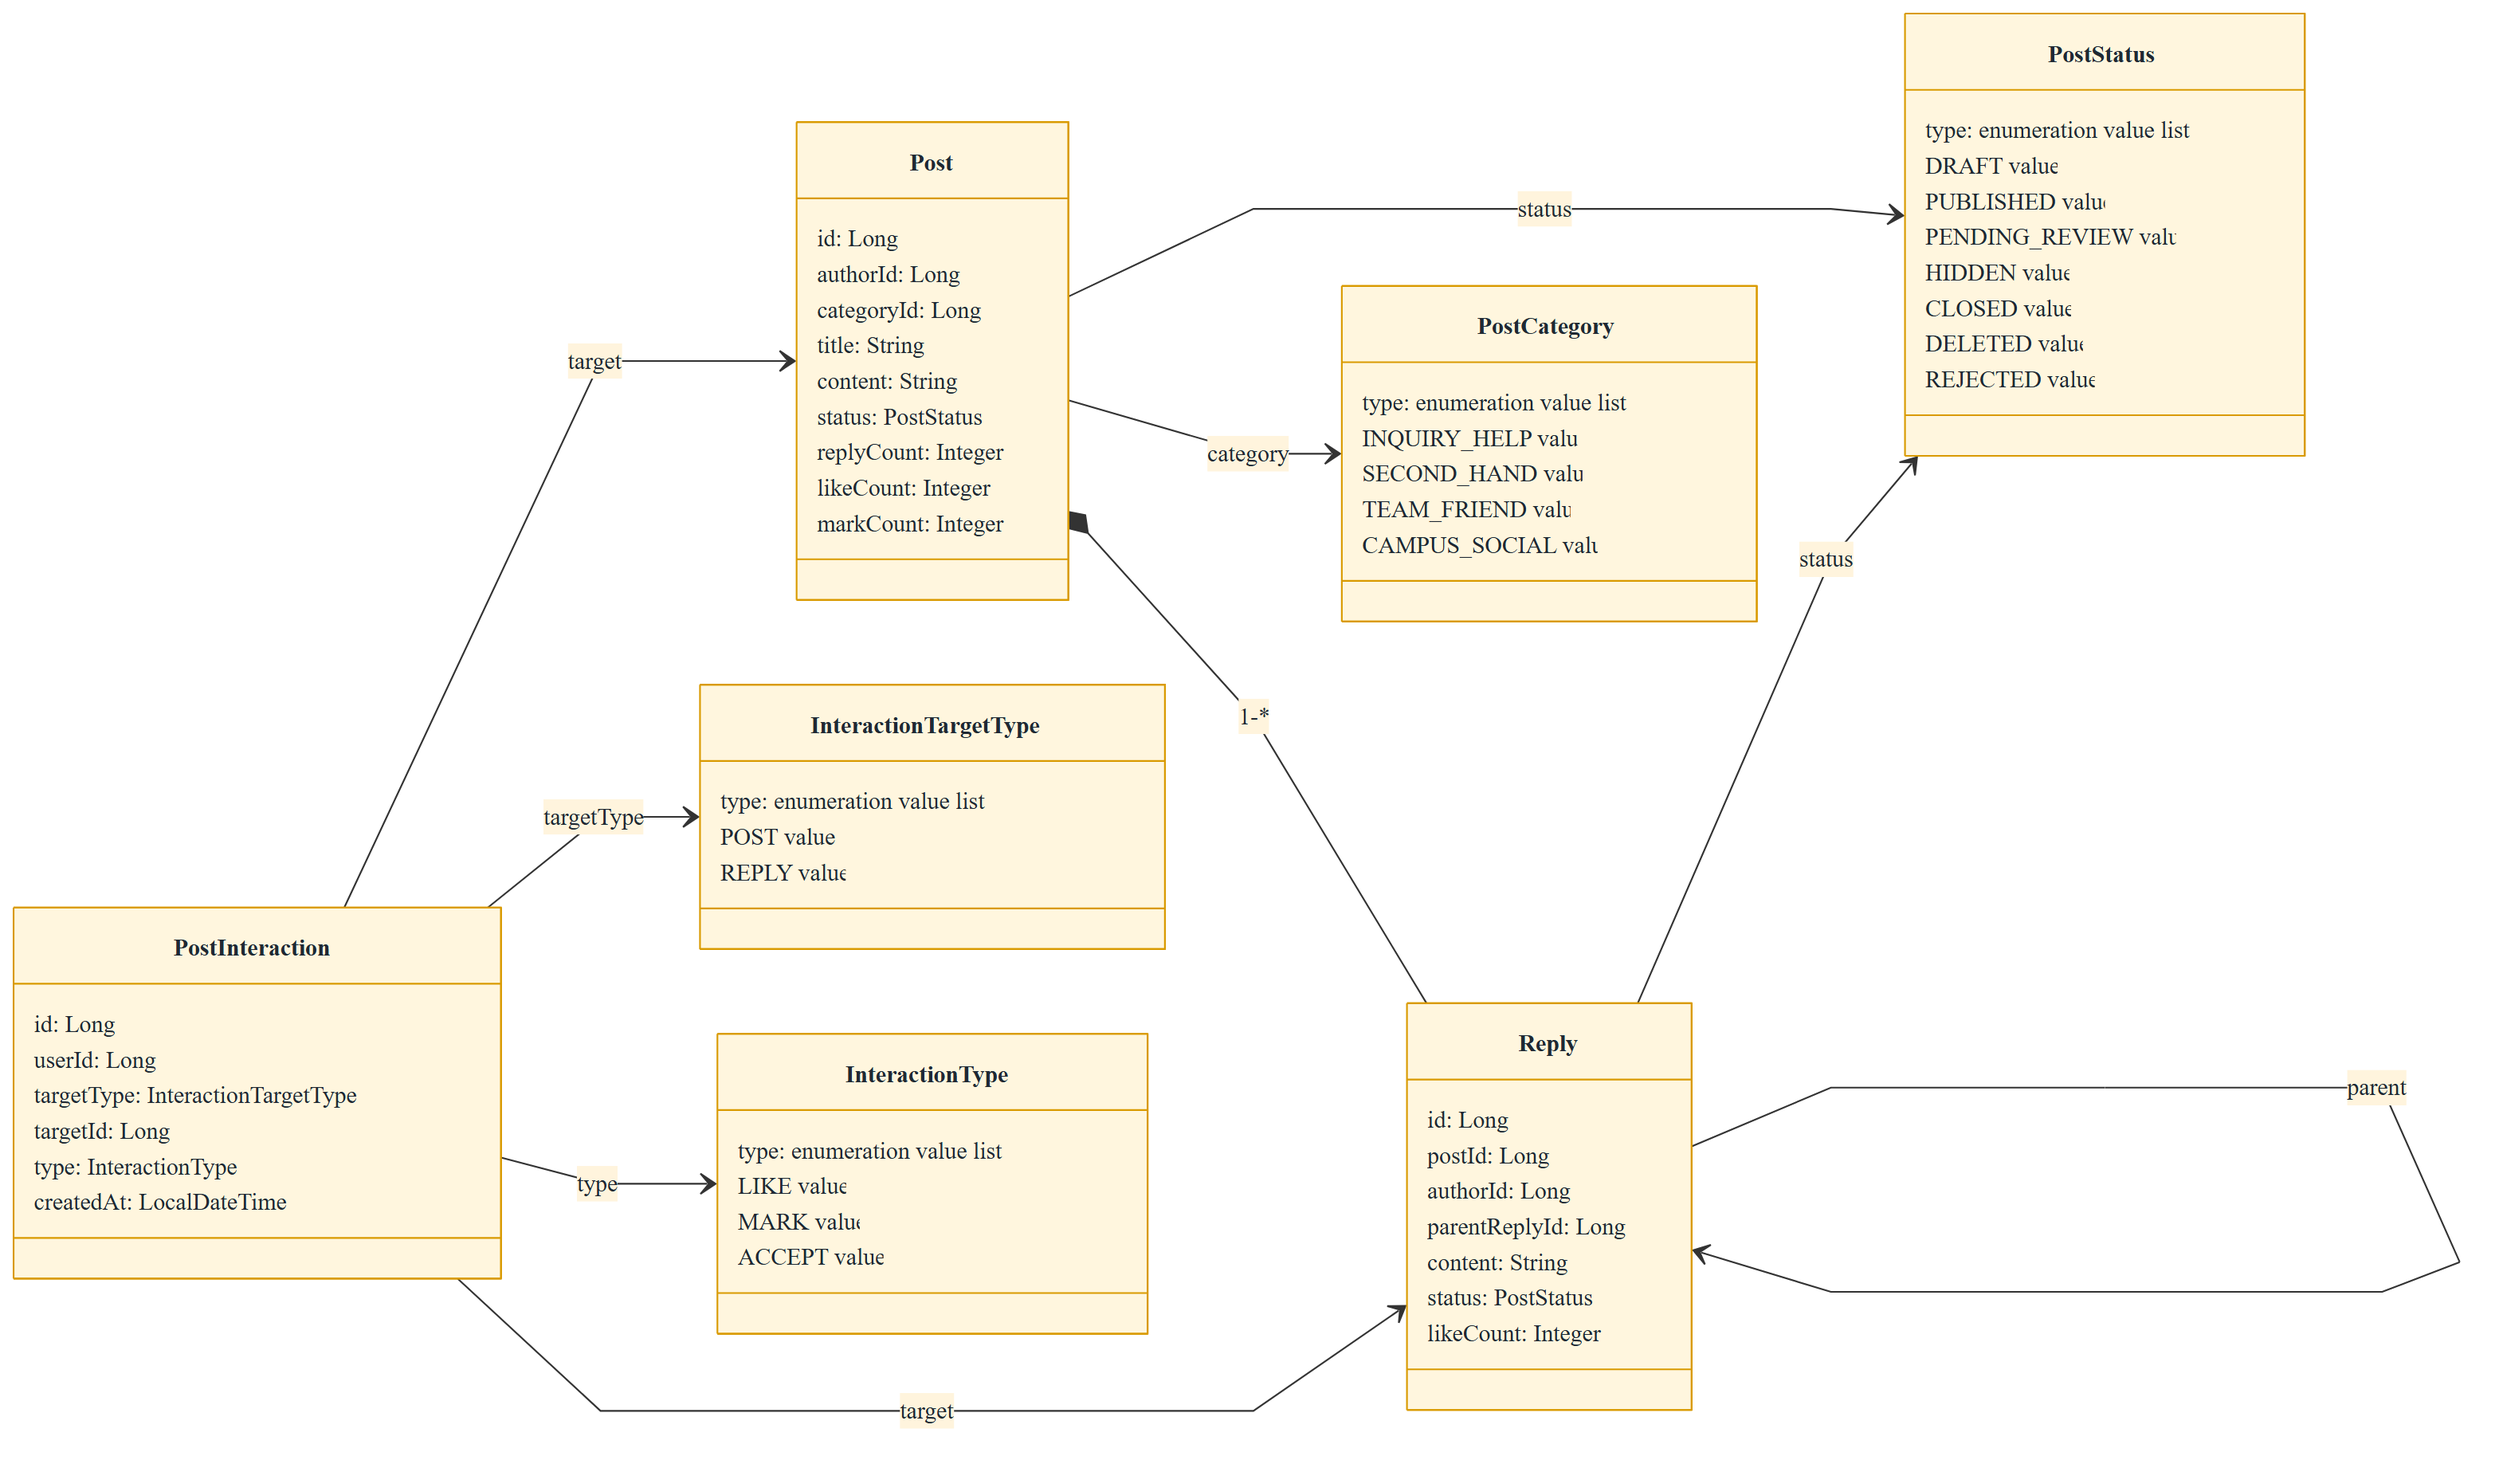
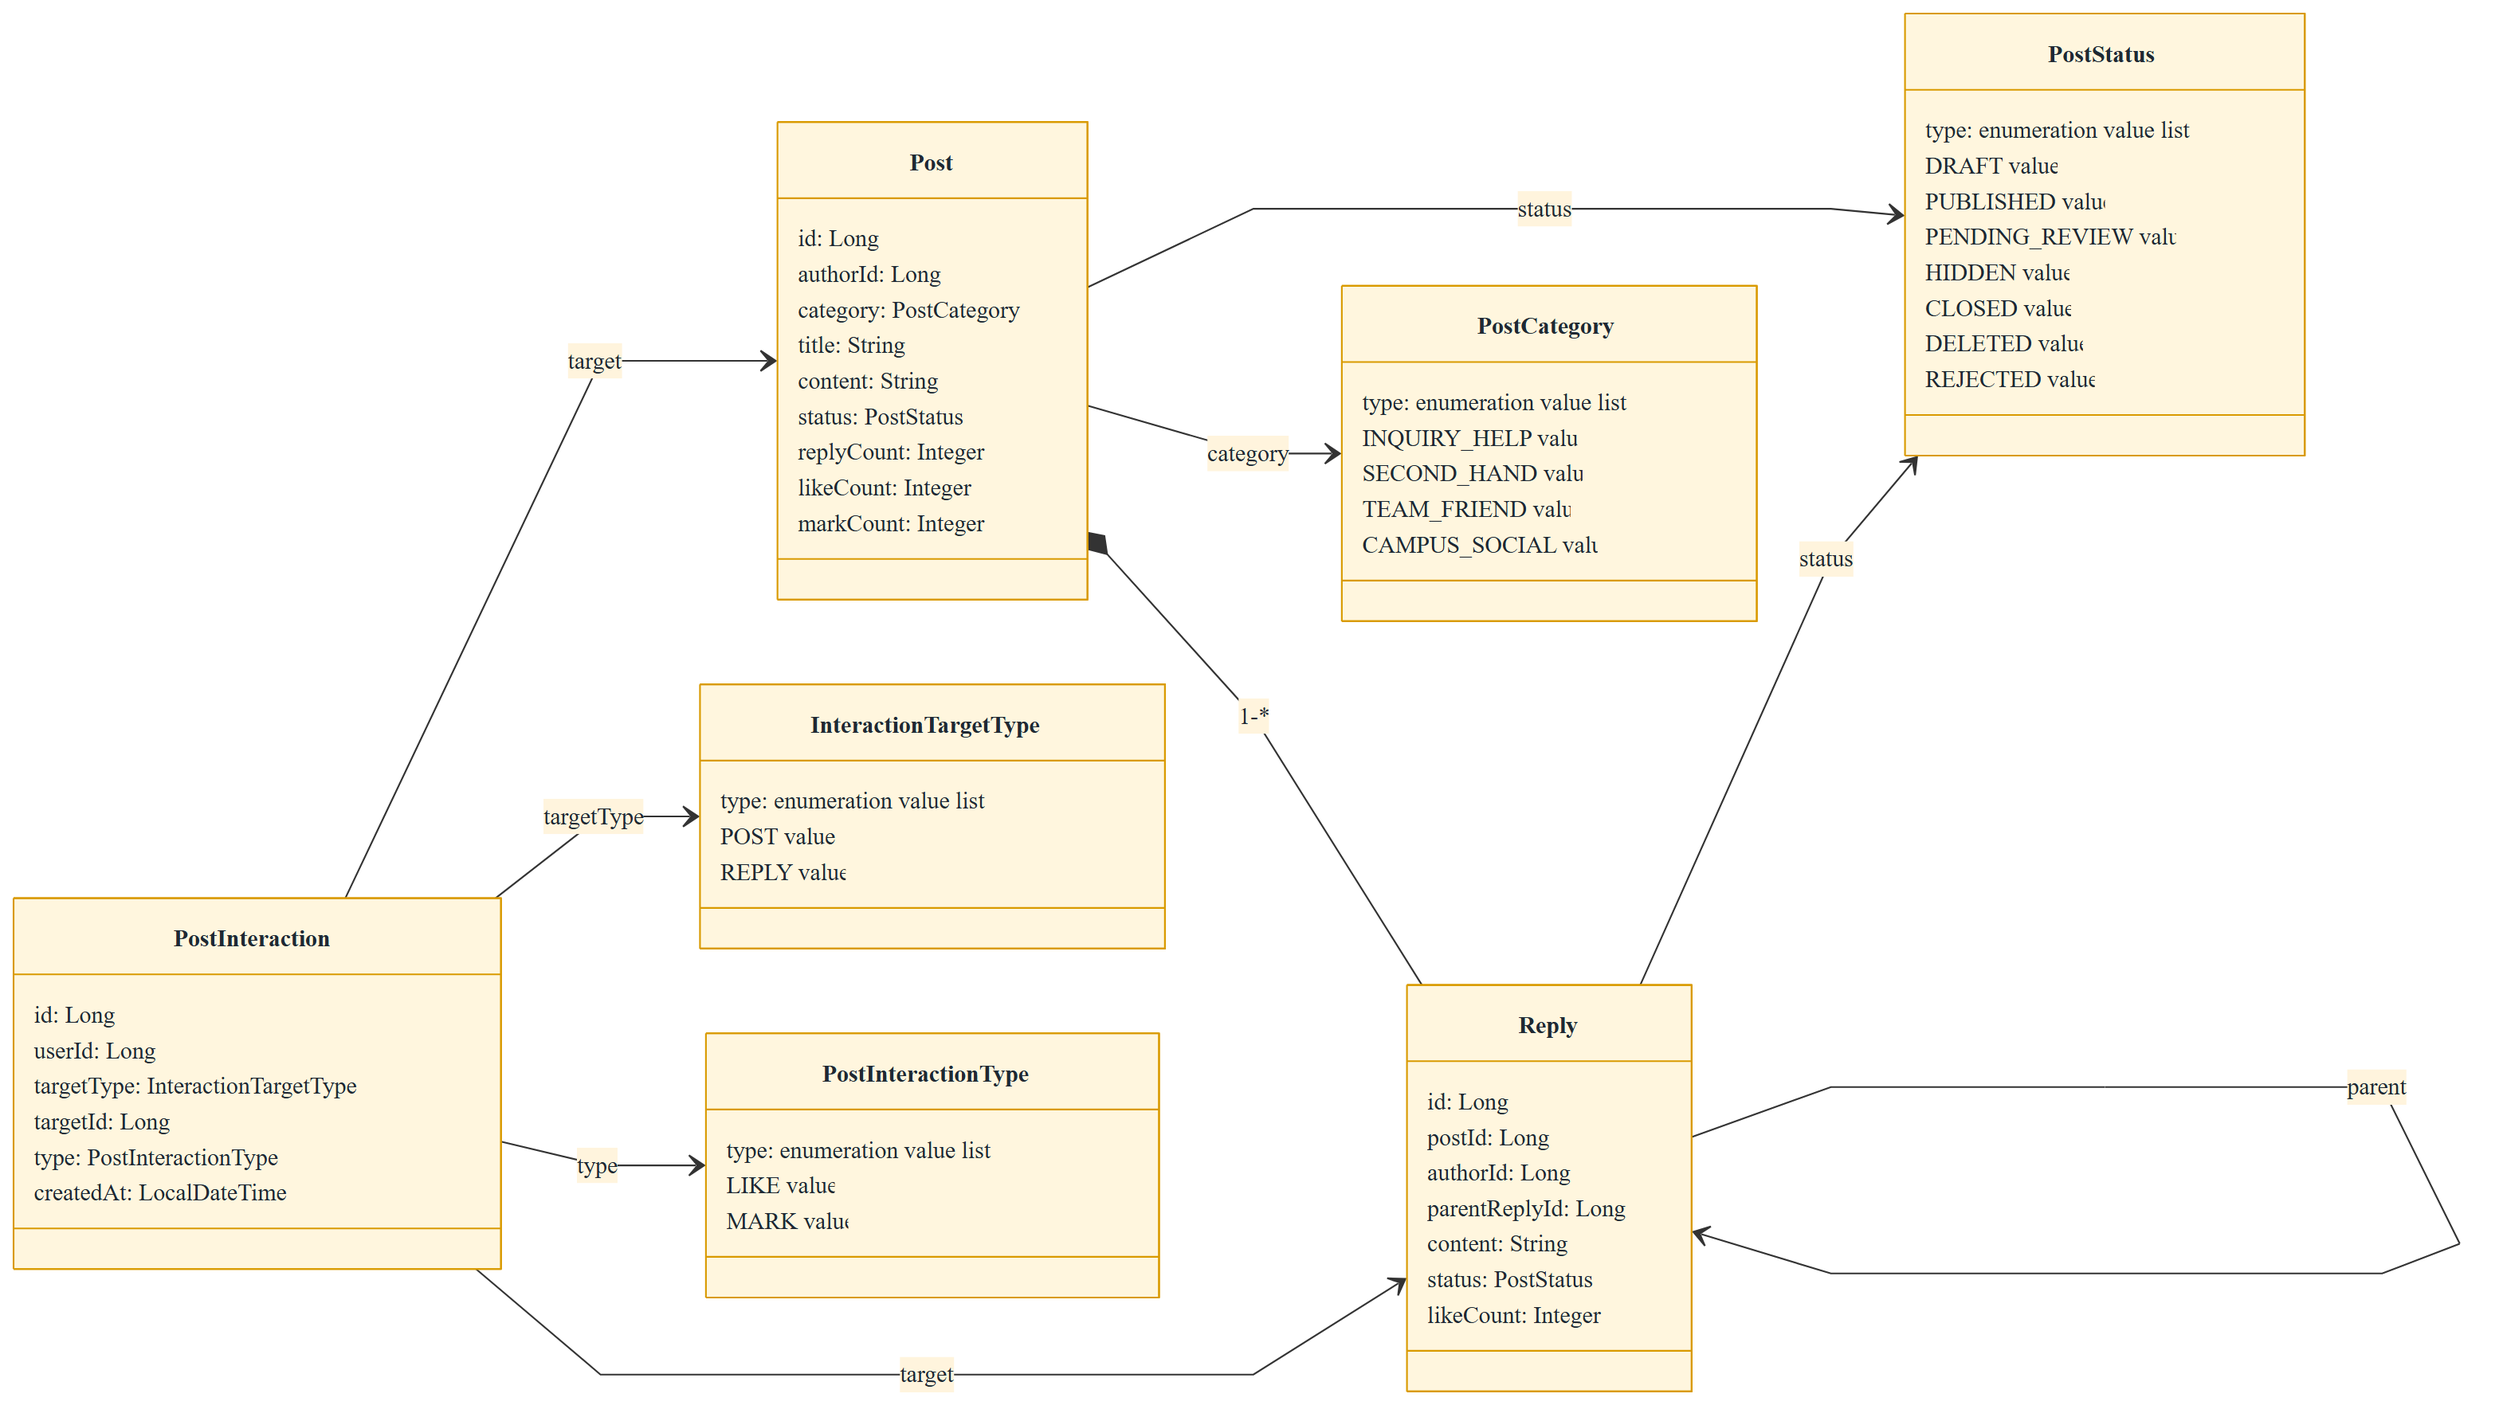
P3图片修正

diff --git a/docs/P3/01-核心类设计/核心类图/核心类设计.md b/docs/P3/01-核心类设计/核心类图/核心类设计.md
@@ -316,8 +316,9 @@
 | `id` | `Long` | 认证记录 ID |
 | `userId` | `Long` | 用户 ID |
 | `method` | `VerificationMethod` | 认证方式 |
-| `realName` | `String` | 真实姓名 |
-| `studentNumber` | `String` | 学号 |
+| `realNameCipher` | `String` | 真实姓名密文 |
+| `studentNumberCipher` | `String` | 学号密文 |
+| `studentNumberHash` | `String` | 学号哈希，用于查重 |
 | `school` | `String` | 学校 |
 | `department` | `String` | 院系 |
 | `evidenceUrl` | `String` | 认证材料 |
@@ -356,7 +357,7 @@ VerificationStatus: UNVERIFIED, PENDING, VERIFIED, REJECTED
 |---|---|---|
 | `id` | `Long` | 帖子 ID |
 | `authorId` | `Long` | 作者 ID |
-| `categoryId` | `Long` | 所属板块 ID |
+| `category` | `PostCategory` | 帖子分类 |
 | `title` | `String` | 标题 |
 | `content` | `String` | 正文 |
 | `status` | `PostStatus` | 帖子状态 |
@@ -393,7 +394,7 @@ VerificationStatus: UNVERIFIED, PENDING, VERIFIED, REJECTED
 | `userId` | `Long` | 用户 ID |
 | `targetType` | `InteractionTargetType` | 互动对象类型 |
 | `targetId` | `Long` | 互动对象 ID |
-| `type` | `InteractionType` | 互动类型 |
+| `type` | `PostInteractionType` | 互动类型 |
 | `createdAt` | `LocalDateTime` | 创建时间 |
 
 ### 6.4 帖子模块枚举
@@ -402,7 +403,7 @@ VerificationStatus: UNVERIFIED, PENDING, VERIFIED, REJECTED
 PostCategory: INQUIRY_HELP, SECOND_HAND, TEAM_FRIEND, CAMPUS_SOCIAL
 PostStatus: DRAFT, PUBLISHED, PENDING_REVIEW, HIDDEN, CLOSED, DELETED, REJECTED
 InteractionTargetType: POST, REPLY
-InteractionType: LIKE, MARK, ACCEPT
+PostInteractionType: LIKE, MARK
 ```
 
 ## 7. 任务模块
@@ -498,7 +499,7 @@ InteractionType: LIKE, MARK, ACCEPT
 
 ```text
 TaskCategory: ERRAND, AGENCY
-TaskStatus: OPEN, ACCEPTED, IN_PROGRESS, PENDING_CONFIRMATION, COMPLETED, REVIEWED, CANCELLED, DISPUTED
+TaskStatus: DRAFT, OPEN, PENDING_REVIEW, ACCEPTED, IN_PROGRESS, PENDING_CONFIRMATION, COMPLETED, REVIEWED, CANCELLED, DISPUTED, REJECTED
 ApplicationStatus: PENDING, ACCEPTED, REJECTED, WITHDRAWN
 RewardType: FREE, POINTS, CASH, NEGOTIABLE
 ```
@@ -557,14 +558,20 @@ MessageType: TEXT, IMAGE, SYSTEM_NOTIFICATION
 | 关键属性 | 类型 | 说明 |
 |---|---|---|
 | `id` | `Long` | 附件 ID |
+| `uploaderId` | `Long` | 上传者 ID |
 | `ownerType` | `AttachmentOwnerType` | 附件所属对象类型 |
 | `ownerId` | `Long` | 所属对象 ID |
 | `type` | `AttachmentType` | 附件类型 |
-| `url` | `String` | 附件地址 |
+| `fileName` | `String` | 文件名 |
+| `fileUrl` | `String` | 附件地址 |
+| `contentType` | `String` | MIME 类型 |
+| `size` | `Long` | 文件大小 |
+| `status` | `AttachmentStatus` | 附件状态 |
 | `createdAt` | `LocalDateTime` | 创建时间 |
 
 ```text
 AttachmentOwnerType: POST, REPLY, TASK, COMPLETION_PROOF, REPORT, MESSAGE
+AttachmentStatus: TEMPORARY, BOUND, DELETED
 AttachmentType: IMAGE, FILE
 ```
 
@@ -749,4 +756,3 @@ OPEN -> ACCEPTED -> IN_PROGRESS -> PENDING_CONFIRMATION -> COMPLETED -> REVIEWED
 ## 16. 小结
 
 本设计以 `Post` 和 `Task` 分别建模，既保留校园社区型内容的灵活性，也满足课程对任务/订单完整状态机的要求。`ContentItemView` 和适配器机制保证了首页与列表展示的统一性；`TaskService`、`TaskHistory`、`Review` 等类保证了接单、确认、完成、评价的闭环；`Conversation` 与 `Message` 为通知和沟通提供统一基础。整体设计覆盖全部 P0 功能，并为评价信用、通知、治理、推荐等后续功能保留了扩展空间。
-
